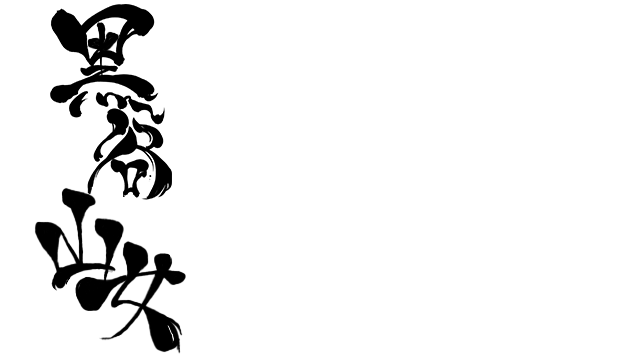
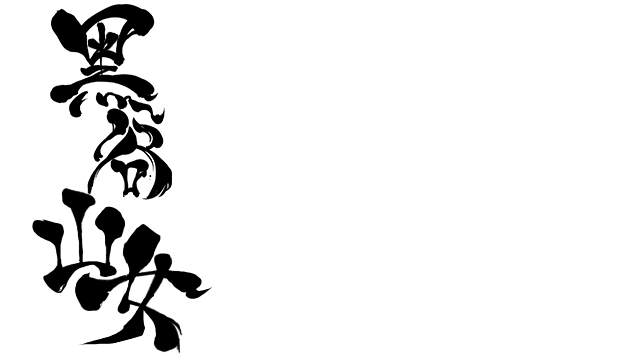
补丁更新：2025-04-16 ===> 08:20(UTC)

diff --git a/thCNPMirror/lang_zh-hans/files.js b/thCNPMirror/lang_zh-hans/files.js
@@ -4360,7 +4360,7 @@
 	"th175/data/cutin/reimu/name_panel.png": 1090356725,
 	"th175/data/cutin/toutetu/name_panel.png": 864454184,
 	"th175/data/cutin/utuho/name_panel.png": 2001355060,
-	"th175/data/cutin/yamame/name_panel.png": 2221885884,
+	"th175/data/cutin/yamame/name_panel.png": 3422733546,
 	"th175/data/cutin/yuugi/name_panel.png": 4064408818,
 	"th175/data/event/pic/ed/flandre-B2.png": 4102462645,
 	"th175/data/event/pic/ed/flandre-B2_line.png": 2698632296,
